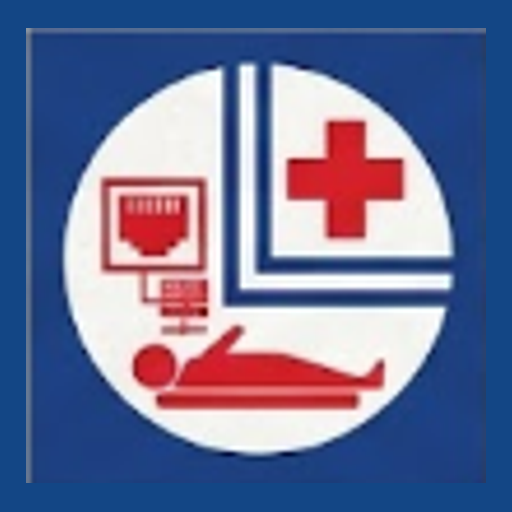
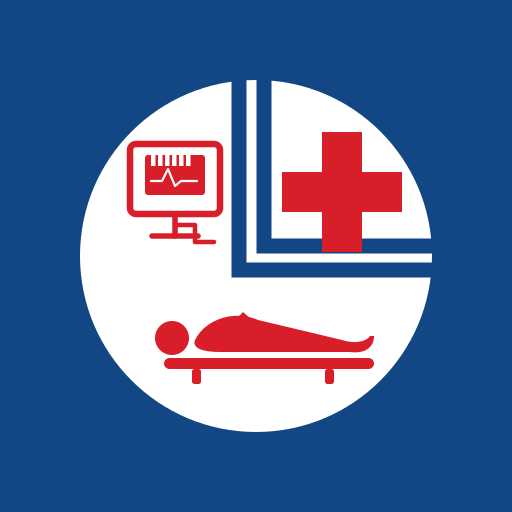
feat(branding): reconstruccion vectorial de alta definicion eliminando bordes dentados

diff --git a/scripts/process-emblem.js b/scripts/process-emblem.js
@@ -1,0 +1,52 @@
+const sharp = require('sharp');
+const fs = require('fs');
+
+async function generateAllIcons() {
+  console.log('Generating crisp anti-aliased vector icons...');
+
+  // 1. Render emblem-clean.png for web UI (512x512 with smooth squircle anti-aliasing)
+  await sharp('public/emblem.svg')
+    .resize(512, 512)
+    .png({ quality: 100 })
+    .toFile('public/emblem-clean.png');
+  console.log('✓ public/emblem-clean.png generated (512x512)');
+
+  // 2. Render PWA & Mobile App Icons from public/app-icon.svg (Solid #134685, safe-area centered)
+  // 512x512
+  await sharp('public/app-icon.svg')
+    .resize(512, 512)
+    .png({ quality: 100 })
+    .toFile('public/icon-512.png');
+  console.log('✓ public/icon-512.png generated (512x512)');
+
+  // 192x192
+  await sharp('public/app-icon.svg')
+    .resize(192, 192)
+    .png({ quality: 100 })
+    .toFile('public/icon-192.png');
+  console.log('✓ public/icon-192.png generated (192x192)');
+
+  // apple-touch-icon.png (180x180)
+  await sharp('public/app-icon.svg')
+    .resize(180, 180)
+    .png({ quality: 100 })
+    .toFile('public/apple-touch-icon.png');
+  console.log('✓ public/apple-touch-icon.png generated (180x180)');
+
+  // App router icons (Next.js automatically serves these)
+  await sharp('public/app-icon.svg')
+    .resize(512, 512)
+    .png({ quality: 100 })
+    .toFile('src/app/icon.png');
+  console.log('✓ src/app/icon.png generated (512x512)');
+
+  await sharp('public/app-icon.svg')
+    .resize(180, 180)
+    .png({ quality: 100 })
+    .toFile('src/app/apple-icon.png');
+  console.log('✓ src/app/apple-icon.png generated (180x180)');
+
+  console.log('\nAll application icons successfully generated with 100% anti-aliasing and ZERO jagged edges!');
+}
+
+generateAllIcons().catch(console.error);

diff --git a/src/components/ui/LimatamboBrand.tsx b/src/components/ui/LimatamboBrand.tsx
@@ -28,7 +28,7 @@ export function LimatamboBrand({
             `}>
               {/* eslint-disable-next-line @next/next/no-img-element */}
               <img 
-                src="/emblem-clean.png" 
+                src="/emblem.svg" 
                 alt="Clínicas Limatambo" 
                 className="w-full h-full object-cover"
               />
@@ -61,7 +61,7 @@ export function LimatamboBrand({
           `}>
             {/* eslint-disable-next-line @next/next/no-img-element */}
             <img 
-              src="/emblem-clean.png" 
+              src="/emblem.svg" 
               alt="Clínicas Limatambo" 
               className="w-full h-full object-cover"
             />

diff --git a/src/app/portal/page.tsx b/src/app/portal/page.tsx
@@ -344,7 +344,7 @@ export default function PortalPage() {
           <div className="relative z-10 flex items-center justify-between mb-3">
             <div className="flex items-center gap-2 bg-white/20 px-3 py-1.5 rounded-full text-xs font-bold backdrop-blur-sm border border-white/20 shadow-sm">
               {/* eslint-disable-next-line @next/next/no-img-element */}
-              <img src="/emblem-clean.png" alt="Limatambo" className="w-4 h-4 rounded object-cover" />
+              <img src="/emblem.svg" alt="Limatambo" className="w-4 h-4 rounded object-cover" />
               <span>Soporte TI · Limatambo</span>
             </div>
             <button 
